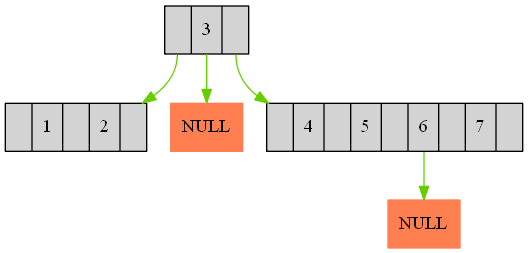
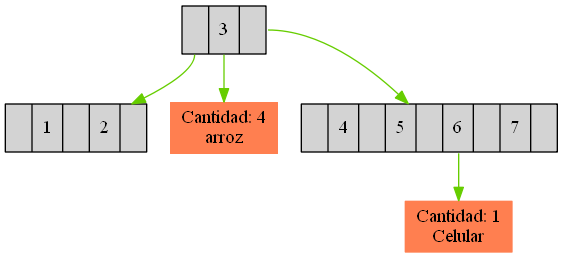
Arregle la grafica del detalle

diff --git a/Proyecto2_201602713_201612216/Servidor/src/java/avl_arbol/arbolb.java b/Proyecto2_201602713_201612216/Servidor/src/java/avl_arbol/arbolb.java
@@ -213,7 +213,8 @@ public class arbolb {
                 for (j = 0; j < pivote.cantidad; j++) {
                     if (pivote.pagina[j].numeroF != 0 && pivote.pagina[j].detalle != null) {
                         Cola z = new Cola();
-                        pw.println("Nodo" + contador + ":" + pivote.pagina[j].numeroF + "->" + z.regresa_cola(pivote.pagina[j].numeroF, "det") + "\n");
+                        z.primero = pivote.pagina[j].detalle;
+                        pw.println("Nodo" + contador + ":" + pivote.pagina[j].numeroF + "->" + z.regresa_cola(pivote.pagina[j].detalle.indice, "" + pivote.pagina[j].numeroF) + "\n");
                     }
                 }
                 if (j == pivote.cantidad) {
@@ -258,7 +259,8 @@ public class arbolb {
                     for (cont = 0; cont < aux.hijos[j].cantidad + 1; cont++) {
                         if (aux.hijos[j].pagina[cont].numeroF != 0 && aux.hijos[j].pagina[cont].detalle != null) {
                             Cola z = new Cola();
-                            c = c + "Nodo" + contador + ":" + aux.hijos[j].pagina[cont].numeroF + "->" + z.regresa_cola(aux.hijos[j].pagina[cont].numeroF, "det") + "\n";
+                            z.primero = aux.hijos[j].pagina[cont].detalle;
+                            c = c + "Nodo" + contador + ":" + aux.hijos[j].pagina[cont].numeroF + "->" + z.regresa_cola(aux.hijos[j].pagina[cont].detalle.indice, "" + aux.hijos[j].pagina[cont].numeroF) + "\n";
                         }
                     }
                     graficar2(aux.hijos[j], contador);
